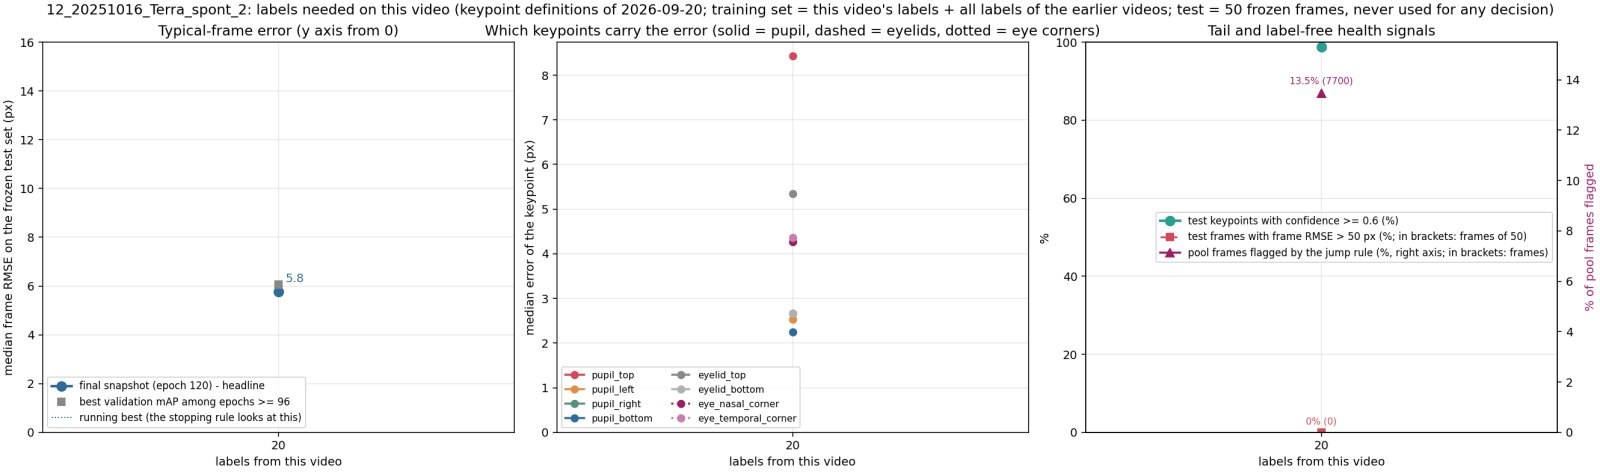
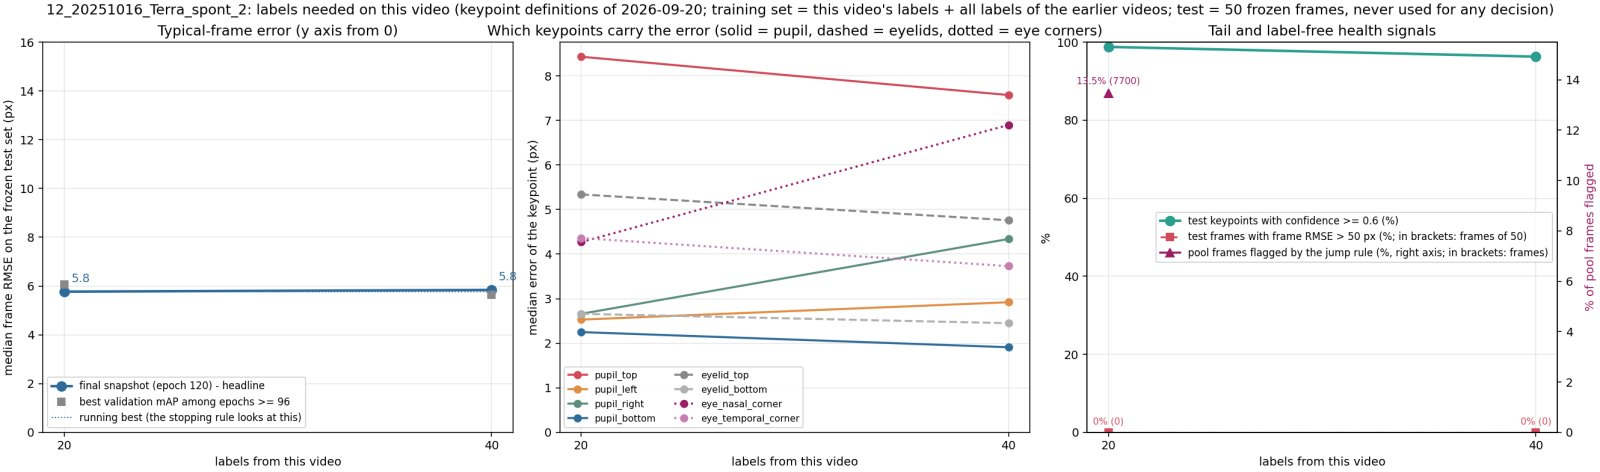
Video 12 step 2: 40 labels 5.84 px; plateau rule fired at 40 (plateau point 0 labels by the rule; 0-label point biased by pre-labels); awaiting user decision
Claude-Session: https://claude.ai/code/session_017MK5SWBFFQAu8ejFk1z7fh

diff --git a/report/index.html b/report/index.html
@@ -78,7 +78,7 @@ math[display="block"]{margin:10px 0 6px;text-align:left;overflow-x:auto;max-widt
 
 <header>
   <h1><span lang="zh">小鼠眼睛关键点追踪：做了什么，结果是什么</span><span lang="en">Mouse eye keypoint tracking: what was done and what came out</span></h1>
-  <p class="muted small">Zhiheng Li (University of Minnesota), Kaiwen Sheng (Stanford) · <span lang="zh">页面生成时间</span><span lang="en">page built</span> 2026-10-04 17:19 · <a href="https://github.com/ZhihengLi0/mouse-behavior-tracking">GitHub: ZhihengLi0/mouse-behavior-tracking</a></p>
+  <p class="muted small">Zhiheng Li (University of Minnesota), Kaiwen Sheng (Stanford) · <span lang="zh">页面生成时间</span><span lang="en">page built</span> 2026-10-04 21:08 · <a href="https://github.com/ZhihengLi0/mouse-behavior-tracking">GitHub: ZhihengLi0/mouse-behavior-tracking</a></p>
 
   <div class="text" lang="zh">
     <p><b>任务：</b>用 DeepLabCut 在小鼠眼睛视频的每一帧上找 8 个点：瞳孔上、下、左、右，上眼睑、下眼睑，鼻侧眼角、颞侧眼角。由这 8 个点得到瞳孔大小、眼睛睁开程度和眨眼，之后与脑记录对齐。</p>
@@ -105,7 +105,7 @@ math[display="block"]{margin:10px 0 6px;text-align:left;overflow-x:auto;max-widt
       <li><b>瞳孔面积怎么算？</b>按 2026 年 9 月 20 日明确的定义，瞳孔四个点都是椭圆端点，在 12 个视频的 594 帧测试帧上，四点法的面积误差中位数是 6.6%，三点法是 8.3%；视频 4 和 8 上面积仍然不准（第 9 步）。</li>
       <li><b>眨眼怎么判断？</b>还没有结果：眨眼的定义和真值还没有定。目前只有一个初步观察：瞳孔四个点的平均置信度低于 0.527，可以找出人工把四个瞳孔点都留空的帧（28 帧里 27 帧，其余帧误报 4.1%），但留空的帧不等于眨眼（第 10 步）。</li>
     </ol>
-    <p><b>进度：</b>已完成 12 个视频（视频 0–11）；视频 12 进行中，按 0 / 20 / 40 / … 帧的误差为 5.13 / 5.77 px。</p>
+    <p><b>进度：</b>已完成 12 个视频（视频 0–11）；视频 12 进行中，按 0 / 20 / 40 / … 帧的误差为 5.13 / 5.77 / 5.84 px。</p>
   </div>
   <div class="text" lang="en">
     <p><b>Task:</b> DeepLabCut finds 8 points on every frame of a mouse-eye video: pupil top, bottom, left, right; upper and lower eyelid; nasal and temporal eye corner. From these we get pupil size, eye opening and blinks, to be aligned with brain recordings later.</p>
@@ -132,7 +132,7 @@ math[display="block"]{margin:10px 0 6px;text-align:left;overflow-x:auto;max-widt
       <li><b>How to compute the pupil area?</b> Under the definitions made explicit on 2026-09-20 all four pupil points are ellipse endpoints, and on the 594 test frames of 12 videos the four-point area has a median error of 6.6% against 8.3% for the three-point rule; on videos 4 and 8 the area is still not accurate (step 9).</li>
       <li><b>How to detect blinks?</b> No result yet: the definition of a blink and its truth are not fixed. Only a preliminary observation so far: a mean confidence of the four pupil points below 0.527 finds the frames in which the labeler left all four pupil points empty (27 of 28, with 4.1% of the other frames flagged), but an empty frame is not the same as a blink (step 10).</li>
     </ol>
-    <p><b>Status:</b> 12 videos finished (videos 0–11); video 12 in progress, error at 0 / 20 / 40 / … labels: 5.13 / 5.77 px.</p>
+    <p><b>Status:</b> 12 videos finished (videos 0–11); video 12 in progress, error at 0 / 20 / 40 / … labels: 5.13 / 5.77 / 5.84 px.</p>
   </div>
 
   <div class="text" lang="zh">
@@ -616,7 +616,7 @@ math[display="block"]{margin:10px 0 6px;text-align:left;overflow-x:auto;max-widt
 <tr><td>9</td><td>Pluto<br>2025-10-23</td><td>420</td><td>23.41 / 10.39 / 8.55 / 8.67 / 8.20 / 9.39 / 8.63</td><td><span lang="zh"><b>80 帧，8.20 px</b></span><span lang="en"><b>80 labels, 8.20 px</b></span></td><td>120</td><td>80</td></tr>
 <tr><td>10</td><td>Pluto<br>2025-10-22</td><td>500</td><td>18.13 / 11.83 / 10.32 / 10.49 / 10.76</td><td><span lang="zh"><b>40 帧，10.32 px</b></span><span lang="en"><b>40 labels, 10.32 px</b></span></td><td>80</td><td>40</td></tr>
 <tr><td>11</td><td>Terra<br>2025-10-17</td><td>540</td><td>25.96 / 9.24 / 8.86 / 8.77 / 8.65</td><td><span lang="zh"><b>40 帧，8.86 px</b></span><span lang="en"><b>40 labels, 8.86 px</b></span></td><td>80</td><td>40</td></tr>
-<tr><td>12</td><td>Terra<br>2025-10-16</td><td>580</td><td>5.13 / 5.77</td><td><span lang="zh">进行中（目前最好：0 帧，5.13 px）</span><span lang="en">in progress (best so far: 0 labels, 5.13 px)</span></td><td>20</td><td>–</td></tr>
+<tr><td>12</td><td>Terra<br>2025-10-16</td><td>580</td><td>5.13 / 5.77 / 5.84</td><td><span lang="zh">进行中（目前最好：0 帧，5.13 px）</span><span lang="en">in progress (best so far: 0 labels, 5.13 px)</span></td><td>40</td><td>–</td></tr>
       </tbody>
     </table>
   </div>
@@ -713,6 +713,7 @@ math[display="block"]{margin:10px 0 6px;text-align:left;overflow-x:auto;max-widt
 <tr><td>9</td><td>23.41</td><td>11.74 / 12.62</td><td>11.55 / 11.07</td><td>10.39</td></tr>
 <tr><td>10</td><td>18.13</td><td>15.01 / 12.50</td><td>11.70 / 13.08</td><td>11.83</td></tr>
 <tr><td>11</td><td>25.96</td><td>9.69 / 9.97</td><td>9.54 / 8.87</td><td>9.24</td></tr>
+<tr><td>12</td><td>5.13</td><td>5.79 / –</td><td>– / –</td><td>5.77</td></tr>
       </tbody>
     </table>
   </div>
@@ -732,6 +733,7 @@ math[display="block"]{margin:10px 0 6px;text-align:left;overflow-x:auto;max-widt
       <div class="item"><img src="assets/fewer_video09.jpg" alt="fewer video 9" loading="lazy"><div class="cap"><span lang="zh">视频 9（Pluto，2025-10-23）</span><span lang="en">Video 9 (Pluto, 2025-10-23)</span></div></div>
       <div class="item"><img src="assets/fewer_video10.jpg" alt="fewer video 10" loading="lazy"><div class="cap"><span lang="zh">视频 10（Pluto，2025-10-22）</span><span lang="en">Video 10 (Pluto, 2025-10-22)</span></div></div>
       <div class="item"><img src="assets/fewer_video11.jpg" alt="fewer video 11" loading="lazy"><div class="cap"><span lang="zh">视频 11（Terra，2025-10-17）</span><span lang="en">Video 11 (Terra, 2025-10-17)</span></div></div>
+      <div class="item"><img src="assets/fewer_video12.jpg" alt="fewer video 12" loading="lazy"><div class="cap"><span lang="zh">视频 12（Terra，2025-10-16）</span><span lang="en">Video 12 (Terra, 2025-10-16)</span></div></div>
     </div></div>
     <figcaption lang="zh"><span class="tag">图 6-2 怎么看：</span>每个视频各一张，排成一行，可以左右拖动。每张图里蓝线是正常的 0、20、40… 帧，橙色点是 5 帧和 10 帧的两组；左图是中位误差，右图是误差超过 50 px 的测试帧比例。两个例子：视频 1（新老鼠的第一个视频），0 帧 208 px，5 帧 96 / 41 px，10 帧 20 / 16 px，20 帧 10.4 px，标得越多越好，5 帧和 10 帧都不够；视频 5（之前的视频已经覆盖得比较好），中位误差在 0–20 帧之间都是 9–16 px，差别不大，但误差超过 50 px 的测试帧从 0 帧时的 12% 降到 5 帧时的 0–4%。</figcaption>
     <figcaption lang="en"><span class="tag">Figure 6-2, how to read:</span>One figure per video in one row; scroll sideways. In each, the blue line is the regular 0, 20, 40, … labels and the orange points are the two subsets of 5 and of 10 labels; left = median error, right = share of test frames above 50 px. Two examples: video 1 (first video of a new mouse): 208 px at 0 labels, 96 / 41 px at 5, 20 / 16 px at 10, 10.4 px at 20; more labels are better and neither 5 nor 10 is enough. Video 5 (well covered by the earlier videos): the median error is 9–16 px anywhere between 0 and 20 labels, but the share of test frames above 50 px falls from 12% at 0 labels to 0–4% at 5.</figcaption>

diff --git a/report/index_en.html b/report/index_en.html
@@ -75,7 +75,7 @@ math[display="block"]{margin:10px 0 6px;text-align:left;overflow-x:auto;max-widt
 
 <header>
   <h1><span lang="en">Mouse eye keypoint tracking: what was done and what came out</span></h1>
-  <p class="muted small">Zhiheng Li (University of Minnesota), Kaiwen Sheng (Stanford) · <span lang="en">page built</span> 2026-10-04 17:19 · <a href="https://github.com/ZhihengLi0/mouse-behavior-tracking">GitHub: ZhihengLi0/mouse-behavior-tracking</a></p>
+  <p class="muted small">Zhiheng Li (University of Minnesota), Kaiwen Sheng (Stanford) · <span lang="en">page built</span> 2026-10-04 21:08 · <a href="https://github.com/ZhihengLi0/mouse-behavior-tracking">GitHub: ZhihengLi0/mouse-behavior-tracking</a></p>
 
   
   <div class="text" lang="en">
@@ -103,7 +103,7 @@ math[display="block"]{margin:10px 0 6px;text-align:left;overflow-x:auto;max-widt
       <li><b>How to compute the pupil area?</b> Under the definitions made explicit on 2026-09-20 all four pupil points are ellipse endpoints, and on the 594 test frames of 12 videos the four-point area has a median error of 6.6% against 8.3% for the three-point rule; on videos 4 and 8 the area is still not accurate (step 9).</li>
       <li><b>How to detect blinks?</b> No result yet: the definition of a blink and its truth are not fixed. Only a preliminary observation so far: a mean confidence of the four pupil points below 0.527 finds the frames in which the labeler left all four pupil points empty (27 of 28, with 4.1% of the other frames flagged), but an empty frame is not the same as a blink (step 10).</li>
     </ol>
-    <p><b>Status:</b> 12 videos finished (videos 0–11); video 12 in progress, error at 0 / 20 / 40 / … labels: 5.13 / 5.77 px.</p>
+    <p><b>Status:</b> 12 videos finished (videos 0–11); video 12 in progress, error at 0 / 20 / 40 / … labels: 5.13 / 5.77 / 5.84 px.</p>
   </div>
 
   
@@ -495,7 +495,7 @@ math[display="block"]{margin:10px 0 6px;text-align:left;overflow-x:auto;max-widt
 <tr><td>9</td><td>Pluto<br>2025-10-23</td><td>420</td><td>23.41 / 10.39 / 8.55 / 8.67 / 8.20 / 9.39 / 8.63</td><td><span lang="en"><b>80 labels, 8.20 px</b></span></td><td>120</td><td>80</td></tr>
 <tr><td>10</td><td>Pluto<br>2025-10-22</td><td>500</td><td>18.13 / 11.83 / 10.32 / 10.49 / 10.76</td><td><span lang="en"><b>40 labels, 10.32 px</b></span></td><td>80</td><td>40</td></tr>
 <tr><td>11</td><td>Terra<br>2025-10-17</td><td>540</td><td>25.96 / 9.24 / 8.86 / 8.77 / 8.65</td><td><span lang="en"><b>40 labels, 8.86 px</b></span></td><td>80</td><td>40</td></tr>
-<tr><td>12</td><td>Terra<br>2025-10-16</td><td>580</td><td>5.13 / 5.77</td><td><span lang="en">in progress (best so far: 0 labels, 5.13 px)</span></td><td>20</td><td>–</td></tr>
+<tr><td>12</td><td>Terra<br>2025-10-16</td><td>580</td><td>5.13 / 5.77 / 5.84</td><td><span lang="en">in progress (best so far: 0 labels, 5.13 px)</span></td><td>40</td><td>–</td></tr>
       </tbody>
     </table>
   </div>
@@ -573,6 +573,7 @@ math[display="block"]{margin:10px 0 6px;text-align:left;overflow-x:auto;max-widt
 <tr><td>9</td><td>23.41</td><td>11.74 / 12.62</td><td>11.55 / 11.07</td><td>10.39</td></tr>
 <tr><td>10</td><td>18.13</td><td>15.01 / 12.50</td><td>11.70 / 13.08</td><td>11.83</td></tr>
 <tr><td>11</td><td>25.96</td><td>9.69 / 9.97</td><td>9.54 / 8.87</td><td>9.24</td></tr>
+<tr><td>12</td><td>5.13</td><td>5.79 / –</td><td>– / –</td><td>5.77</td></tr>
       </tbody>
     </table>
   </div>
@@ -592,6 +593,7 @@ math[display="block"]{margin:10px 0 6px;text-align:left;overflow-x:auto;max-widt
       <div class="item"><img src="assets/fewer_video09.jpg" alt="fewer video 9" loading="lazy"><div class="cap"><span lang="en">Video 9 (Pluto, 2025-10-23)</span></div></div>
       <div class="item"><img src="assets/fewer_video10.jpg" alt="fewer video 10" loading="lazy"><div class="cap"><span lang="en">Video 10 (Pluto, 2025-10-22)</span></div></div>
       <div class="item"><img src="assets/fewer_video11.jpg" alt="fewer video 11" loading="lazy"><div class="cap"><span lang="en">Video 11 (Terra, 2025-10-17)</span></div></div>
+      <div class="item"><img src="assets/fewer_video12.jpg" alt="fewer video 12" loading="lazy"><div class="cap"><span lang="en">Video 12 (Terra, 2025-10-16)</span></div></div>
     </div></div>
     
     <figcaption lang="en"><span class="tag">Figure 6-2, how to read:</span>One figure per video in one row; scroll sideways. In each, the blue line is the regular 0, 20, 40, … labels and the orange points are the two subsets of 5 and of 10 labels; left = median error, right = share of test frames above 50 px. Two examples: video 1 (first video of a new mouse): 208 px at 0 labels, 96 / 41 px at 5, 20 / 16 px at 10, 10.4 px at 20; more labels are better and neither 5 nor 10 is enough. Video 5 (well covered by the earlier videos): the median error is 9–16 px anywhere between 0 and 20 labels, but the share of test frames above 50 px falls from 12% at 0 labels to 0–4% at 5.</figcaption>

diff --git a/README.md b/README.md
@@ -25,7 +25,7 @@ per-frame predictions stay local; git carries code, documentation and audited ag
 | Blink / area analysis | per-video time series in `<video>/results/blink_area_analysis/`; across videos (`v2_new_pupil_top_video_scaling/results/blink_area_consistency.png`): 4-point area better on 7 of 8 test sets; lowest pupil confidence < ~0.2 separates all 16 human closed-eye frames (the production 0.6 cut flags ~half of open frames); area correlates with eye opening in every video |
 | Finished | **video 10** (Pluto, 2025-10-22, the last Pluto video of the sequence): test50 / val20 / batch01 pre-labeled with the video-9 80-label model (1014) and corrected by the labeler (test50: 234 of 400 points moved), test set frozen; 0 labels (model 1014) = 18.13 px (p90 32.0, 8% of frames > 50 px), 20 labels = 11.83 px (p90 27.7, 2% > 50 px), 40 labels = 10.32 px (p90 26.1, 92% of keypoints with confidence >= 0.6), 60 labels = 10.49 px (p90 27.2, 8% > 50 px; no gain over 10.32), 80 labels = 10.76 px (p90 188.7, 12% > 50 px; no gain): the plateau rule fired at 80 (two steps without a gain on 10.32), finished at **40 labels, 10.32 px** (user decision 2026-10-03) |
 | Finished | **video 11** (Terra = mouse C, 2025-10-17, the first video of a new mouse): test50 / val20 / batch01 pre-labeled with the video-10 40-label model (1112) and corrected by the labeler (test50: 249 of 400 points moved), test set frozen; 0 labels (model 1112) = 25.96 px (p90 80.1, 16% of frames > 50 px), 20 labels = 9.24 px (p90 166.4, 20% of frames > 50 px), 40 labels = 8.86 px (p90 17.5, 4% of frames > 50 px, 94% of keypoints with confidence >= 0.6; 4.1% better on the median), 60 labels = 8.77 px (p90 12.9, 2% of frames > 50 px, 97% confidence; 1.0% better than 8.86, a flat step), 80 labels = 8.65 px (p90 13.1, 2% > 50 px, 98% confidence; 1.4% better, a second flat step): the plateau rule fired at 80, finished at **40 labels, 8.86 px** (user decision 2026-10-04). Training set of every step = 540 carried labels of videos 0-10 + this video's labels; shuffles 1211, 1212, ... |
-| In progress | **video 12** (Terra, 2025-10-16): test50 / val20 / batch01 extracted and pre-labeled with the video-11 40-label model (1212) and corrected by the labeler (test50: 110 of 400 points moved), test set frozen; 0 labels (model 1212) = 5.13 px (biased low: this model produced the pre-labels; the other video-11 models give 8.3-10.7 px); 20 labels (shuffle 1311) = 5.77 px (p90 7.7, 0% of frames > 50 px, 99% of keypoints with confidence >= 0.6; no gain over the biased 0-label number, one flat step by the rule); batch 2 being selected (2026-10-04 16:14). Training set of every step = 580 carried labels of videos 0-11 + this video's labels; shuffles 1311, 1312, ... |
+| In progress | **video 12** (Terra, 2025-10-16): test50 / val20 / batch01 extracted and pre-labeled with the video-11 40-label model (1212) and corrected by the labeler (test50: 110 of 400 points moved), test set frozen; 0 labels (model 1212) = 5.13 px (biased low: this model produced the pre-labels; the other video-11 models give 8.3-10.7 px); 20 labels (shuffle 1311) = 5.77 px (p90 7.7, 0% of frames > 50 px, 99% confidence), 40 labels (shuffle 1312) = 5.84 px (p90 7.7, 0% > 50 px, 96% confidence): neither improves the 0-label number, so the plateau rule fired at 40 with plateau point 0 labels; the 0-label number is biased low by the pre-labels (the other video-11 models give 8.3-10.7 px here); awaiting the user's decision (2026-10-04 21:07). |
 | Analysis (2026-10-04) | blink and pupil area on all 12 finished videos (`v2_new_pupil_top_video_scaling/results/blink_and_area/`): four-point area median error 6.6% (three-point 8.3%); closed eye best detected by the mean confidence of the four pupil points (27 of 28 closed frames, 4.1% of open frames flagged; the earlier rule flags 55.7%); area traces still contain tracking jumps not covered by the closure rule. Error and confidence per keypoint (`.../results/keypoint_confidence_error/`): pupil top is the least accurate point (10.9 px median) |
 | Next | Terra units 13-18, one recording day each, newest first |
 

diff --git a/v2_new_pupil_top_video_scaling/12_20251016_Terra_spont_2/results/README.md b/v2_new_pupil_top_video_scaling/12_20251016_Terra_spont_2/results/README.md
@@ -12,6 +12,7 @@ total) + this video's labels; shuffles 1311, 1312, ...
 |---|---|---|---|---|---|
 | 0 (video-11 40-label model 1212, applied unchanged) | 5.13 px | 9.4 | 0% | 77% | – |
 | 20 (shuffle 1311) | 5.77 px | 7.7 | 0% | 99% | 7700 of 57158 (13.5%) |
+| 40 (shuffle 1312) | 5.84 px | 7.7 | 0% | 96% | pending |
 
 The 0-label number is biased low: model 1212 produced the pre-labels of this test set and 290 of the 400 test points
 were left as pre-labeled, so its error on those points is 0. The other models of video 11 (20 / 60 / 80 labels), which
@@ -19,3 +20,13 @@ did not produce the pre-labels, give 10.66 / 8.29 / 8.99 px on this test set (`.
 
 Step 1 (20 labels): 5.77 px. Against the 0-label number (5.13 px, biased low by the pre-labels) this is no gain, so by the
 rule it counts as one flat step; against the other video-11 models on this test set (8.29-10.66 px) it is clearly better.
+
+Step 2 (40 labels): 5.84 px. **The plateau rule fired at 40 labels** (2026-10-04 21:07): steps 1 and 2 (5.77, 5.84 px) did not improve
+the running best, which is the 0-label number 5.13 px; by the rule the plateau point is 0 labels. Awaiting the user's
+decision; the video stays in progress. Note for that decision: the 0-label number is biased low (model 1212 made the
+pre-labels of this test set and 290 of 400 points were left unchanged). The models of video 11 that did not make the
+pre-labels give 10.66 / 8.29 / 8.99 px on this test set (20 / 60 / 80 labels), so against an unbiased starting point the
+first 20 labels of this video do help (to 5.77 px), and 20 more labels change nothing (5.84 px).
+
+Fewer-labels study so far (size of the first batch; 5 of the 20 batch-1 labels, picked by image appearance, no jump
+selection afterwards): subset 5a = 5.79 px (p90 8.0, 0% of frames > 50 px); the other three subsets are queued.

diff --git a/v2_new_pupil_top_video_scaling/results/README.md b/v2_new_pupil_top_video_scaling/results/README.md
@@ -24,7 +24,7 @@ snapshot with the best validation mAP after the first learning-rate drop (epochs
 | 9 `9_20251023_Pluto1` | mouse B, 19.9 min, 2025-10-23 | 420 (videos 0-3 + 40 of video 4 + 20 each of videos 5, 6, 8) | convention v2: 23.41 / 10.39 / 8.55 / 8.67 / 8.20 / 9.39 / 8.63 (120 labels) | **80 labels** (rule fired at 120; user decision 2026-10-01) | 8.20 px |
 | 10 `10_20251022_Pluto1` | mouse B, 19.9 min, 2025-10-22 | 500 (videos 0-3 + 40 of video 4 + 20 each of videos 5, 6, 8 + 80 of video 9) | convention v2: 18.13 / 11.83 / 10.32 / 10.49 / 10.76 | **40 labels** (rule fired at 80; user decision 2026-10-03) | 10.32 px |
 | 11 `11_20251017_Terra_spont_1` | mouse C (Terra), 19.9 min, 2025-10-17 | 540 (videos 0-3 + 40 of video 4 + 20 each of videos 5, 6, 8 + 80 of video 9 + 40 of video 10) | convention v2: 25.96 / 9.24 / 8.86 / 8.77 / 8.65 | **40 labels** (rule fired at 80; user decision 2026-10-04) | 8.86 px |
-| 12 `12_20251016_Terra_spont_2` | mouse C (Terra), 19.9 min, 2025-10-16 | 580 (as for video 11 + 40 of video 11) | convention v2: 5.13 (0 labels; biased low by the pre-labels; see the video's README) / 5.77 | in progress | – |
+| 12 `12_20251016_Terra_spont_2` | mouse C (Terra), 19.9 min, 2025-10-16 | 580 (as for video 11 + 40 of video 11) | convention v2: 5.13 (0 labels; biased low by the pre-labels; see the video's README) / 5.77 / 5.84 | in progress (rule fired at 40; awaiting user decision) | – |
 
 `labels_to_plateau.png` / `labels_to_plateau.csv` (2026-09-30): the plateau point of every video in the sequence as one figure - labels needed (left) and the error at the plateau vs the 0-label error (right); `scripts/plot_labels_to_plateau.py`. The csv is the table above in machine-readable form and is updated when a video finishes.
 
